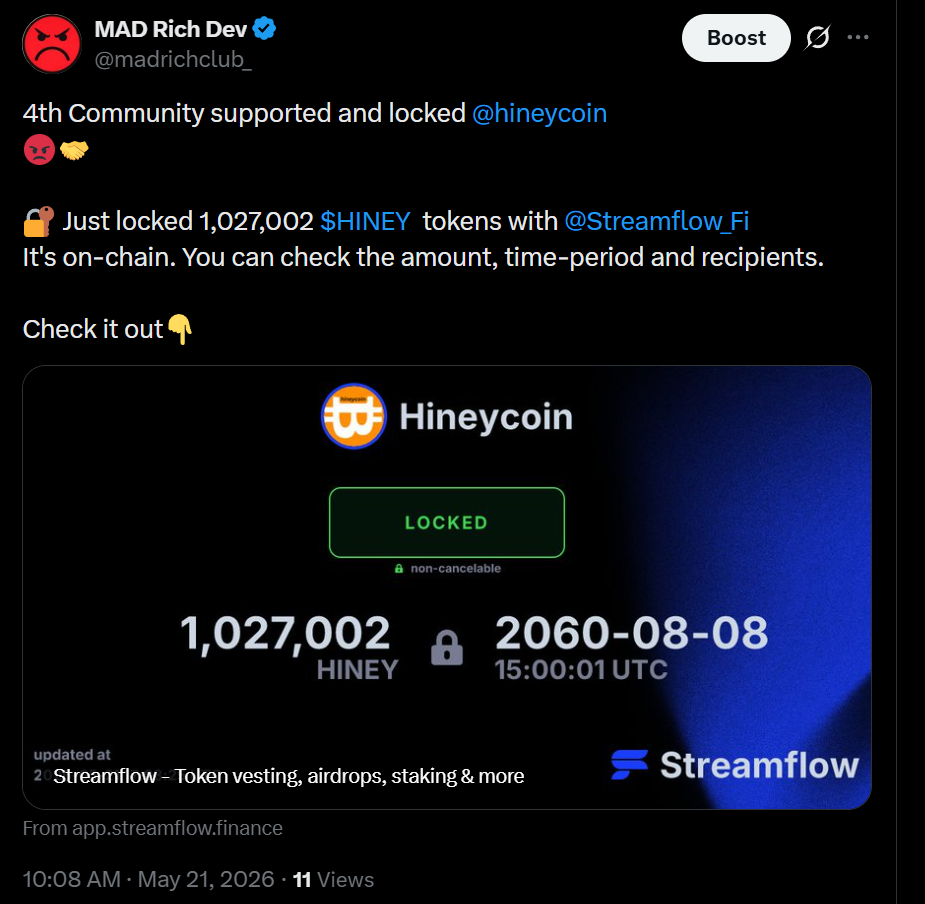
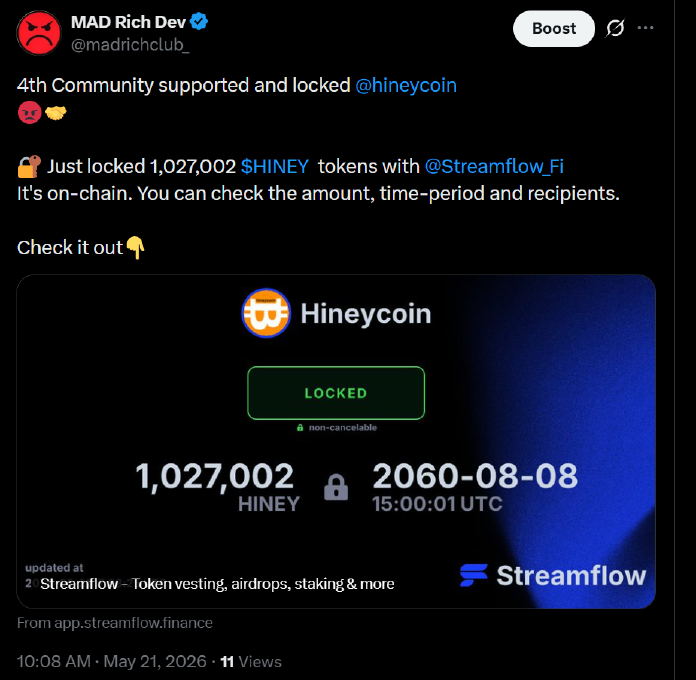
feat(roadmap): update 4th community lock with X post proof + fix proof links

diff --git a/app/roadmap/page.tsx b/app/roadmap/page.tsx
@@ -238,8 +238,9 @@ const EXITS = [
     mile: "MILE 25", title: "Proof + Community", status: "COMPLETE" as const, color: "emerald",
     proof: [
       { label: "Community Support #1", url: LINKS.communityProof, type: "link" as const },
-      { label: "Community Support #2 — Locked", url: LINKS.communityProof2, type: "link" as const },
-      { label: "Burn Tracker", url: "#", type: "link" as const },
+      { label: "Community Support #2", url: LINKS.communityProof2, type: "link" as const },
+      { label: "Community Support #3", url: LINKS.communityProof3, type: "link" as const },
+      { label: "Community Support #4 — Hineycoin", url: LINKS.communityProof4, type: "link" as const },
     ],
     items: [
       { text: "MAD Confessions live", done: true },
@@ -249,7 +250,7 @@ const EXITS = [
       { text: "Community growth active", done: true },
       { text: "4th community locked in", done: true },
     ],
-    summary: "Supply shrinking. 503M → 800M. Two communities backed publicly. Tokens locked.",
+    summary: "Supply shrinking. 503M → 800M. Four communities backed publicly. Tokens locked.",
   },
   {
     mile: "MILE 50", title: "Build", status: "IN PROGRESS" as const, color: "yellow",